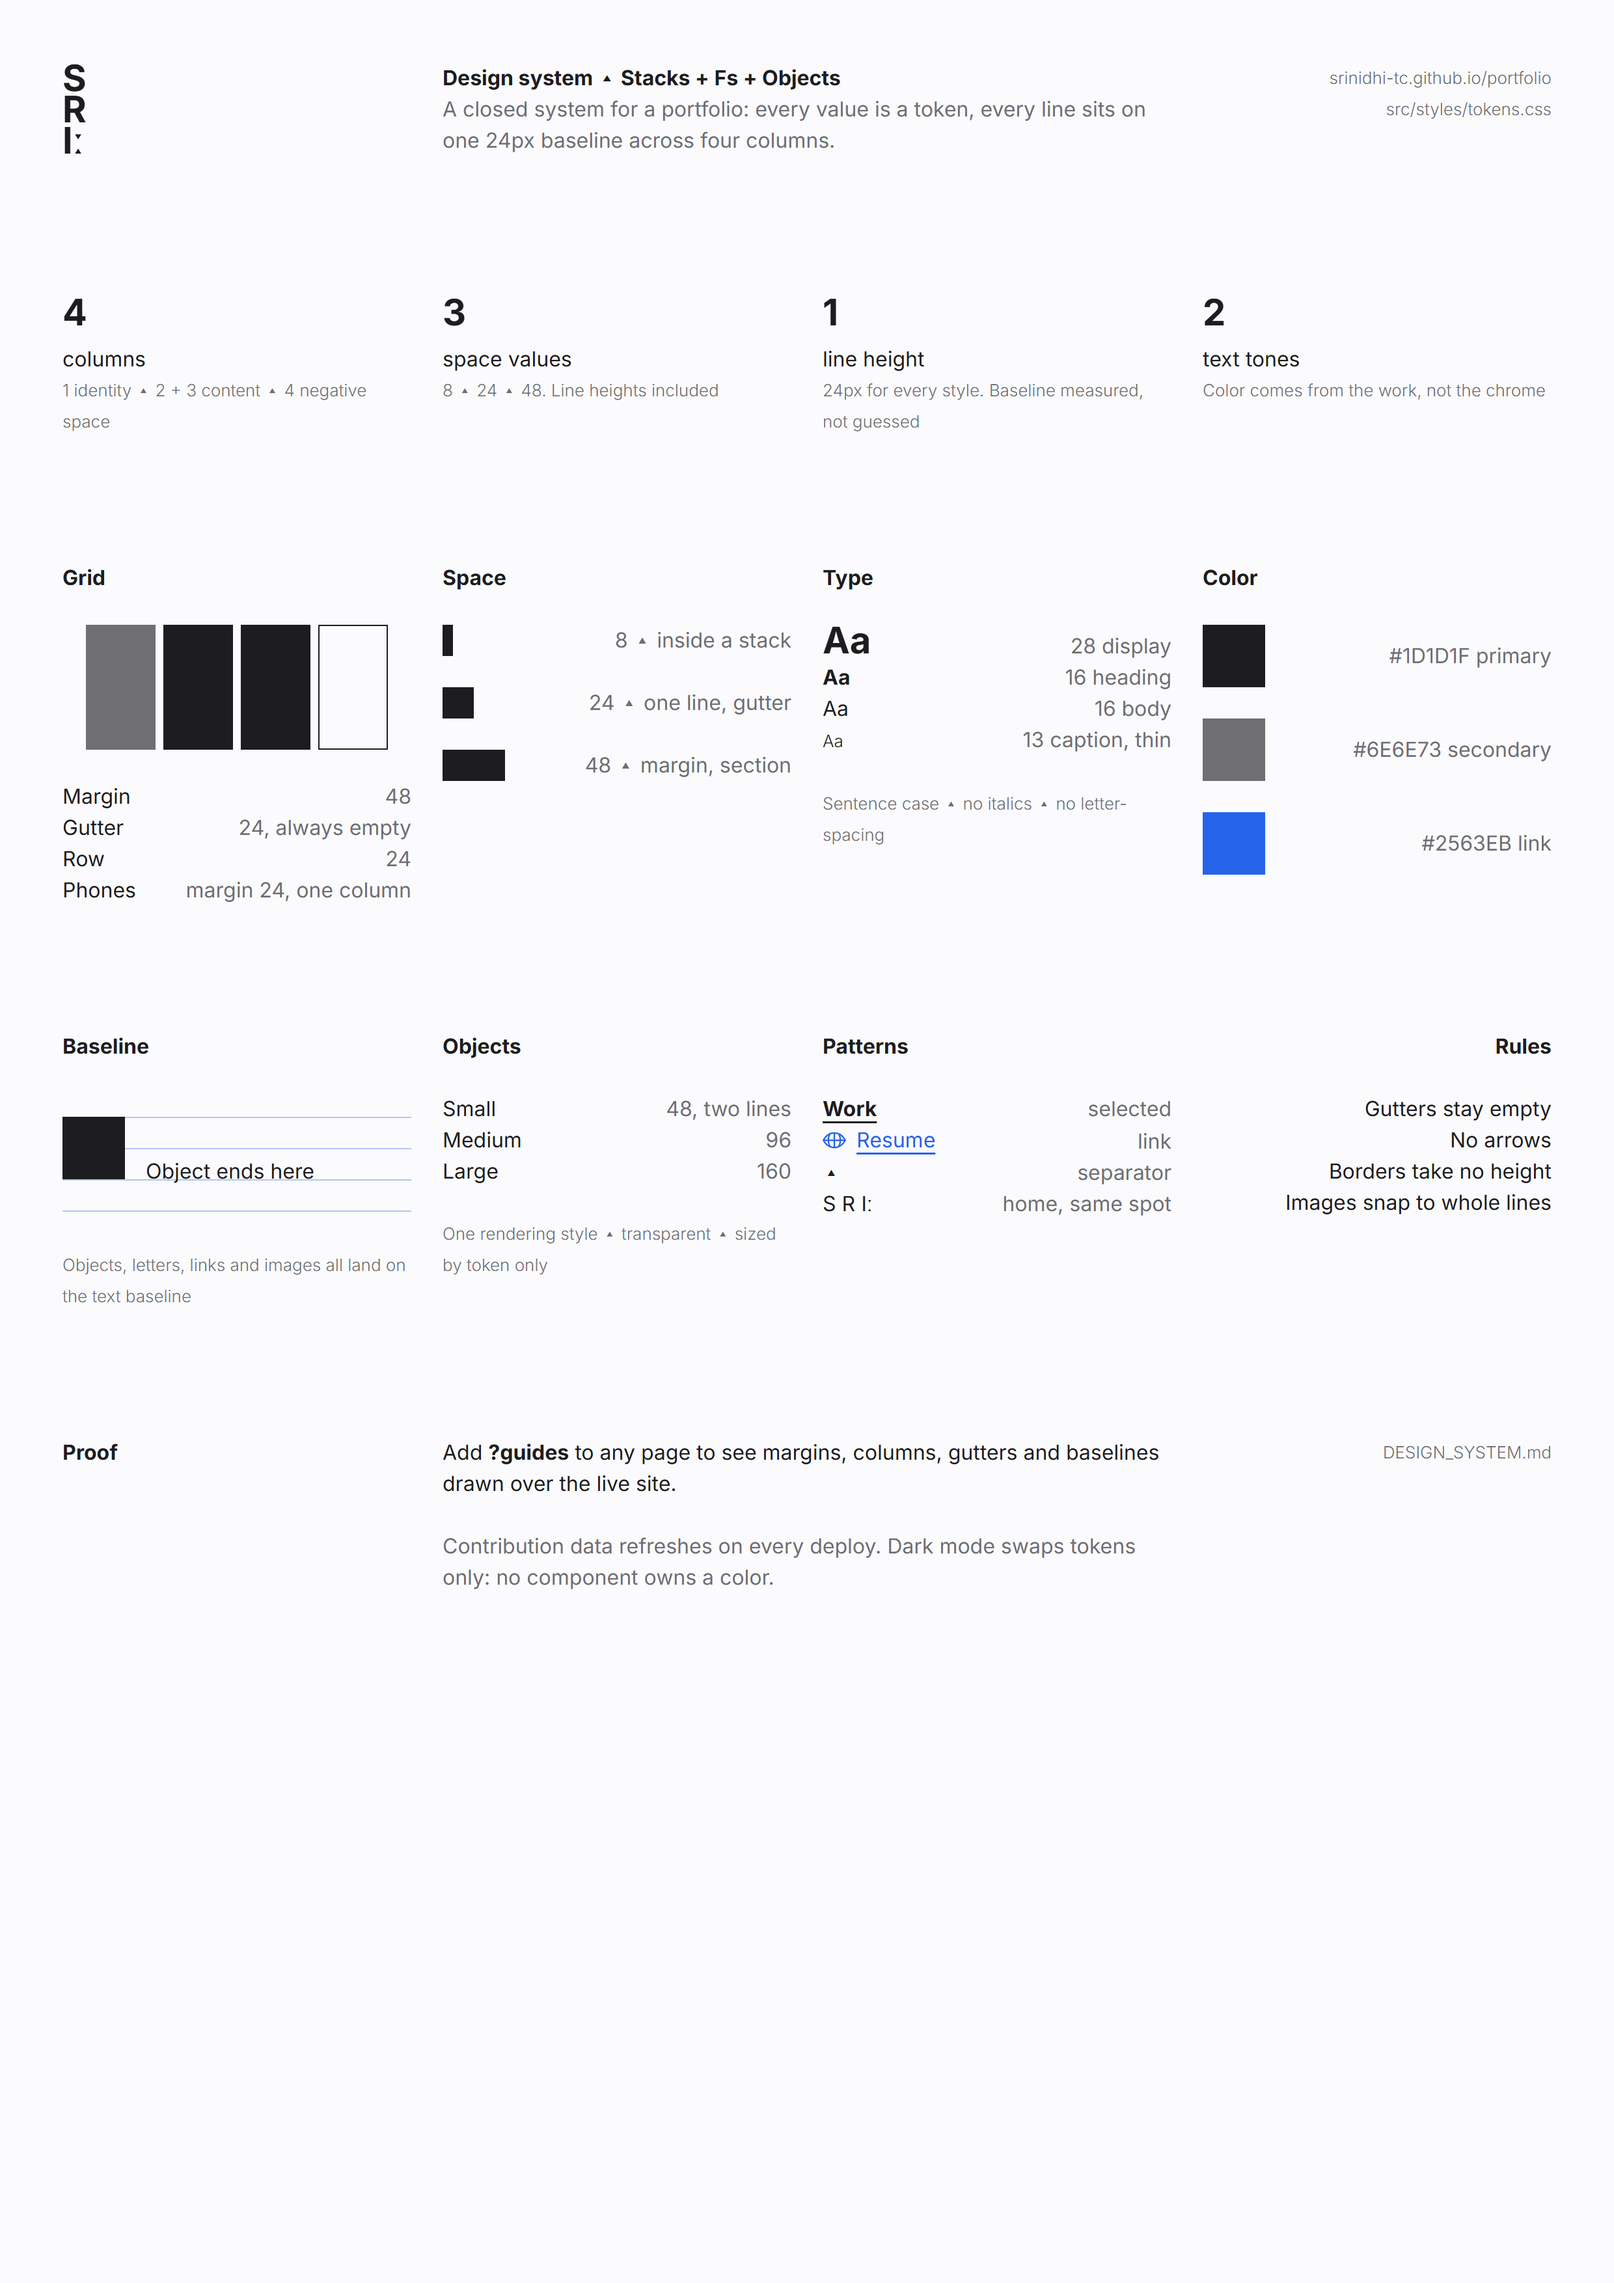
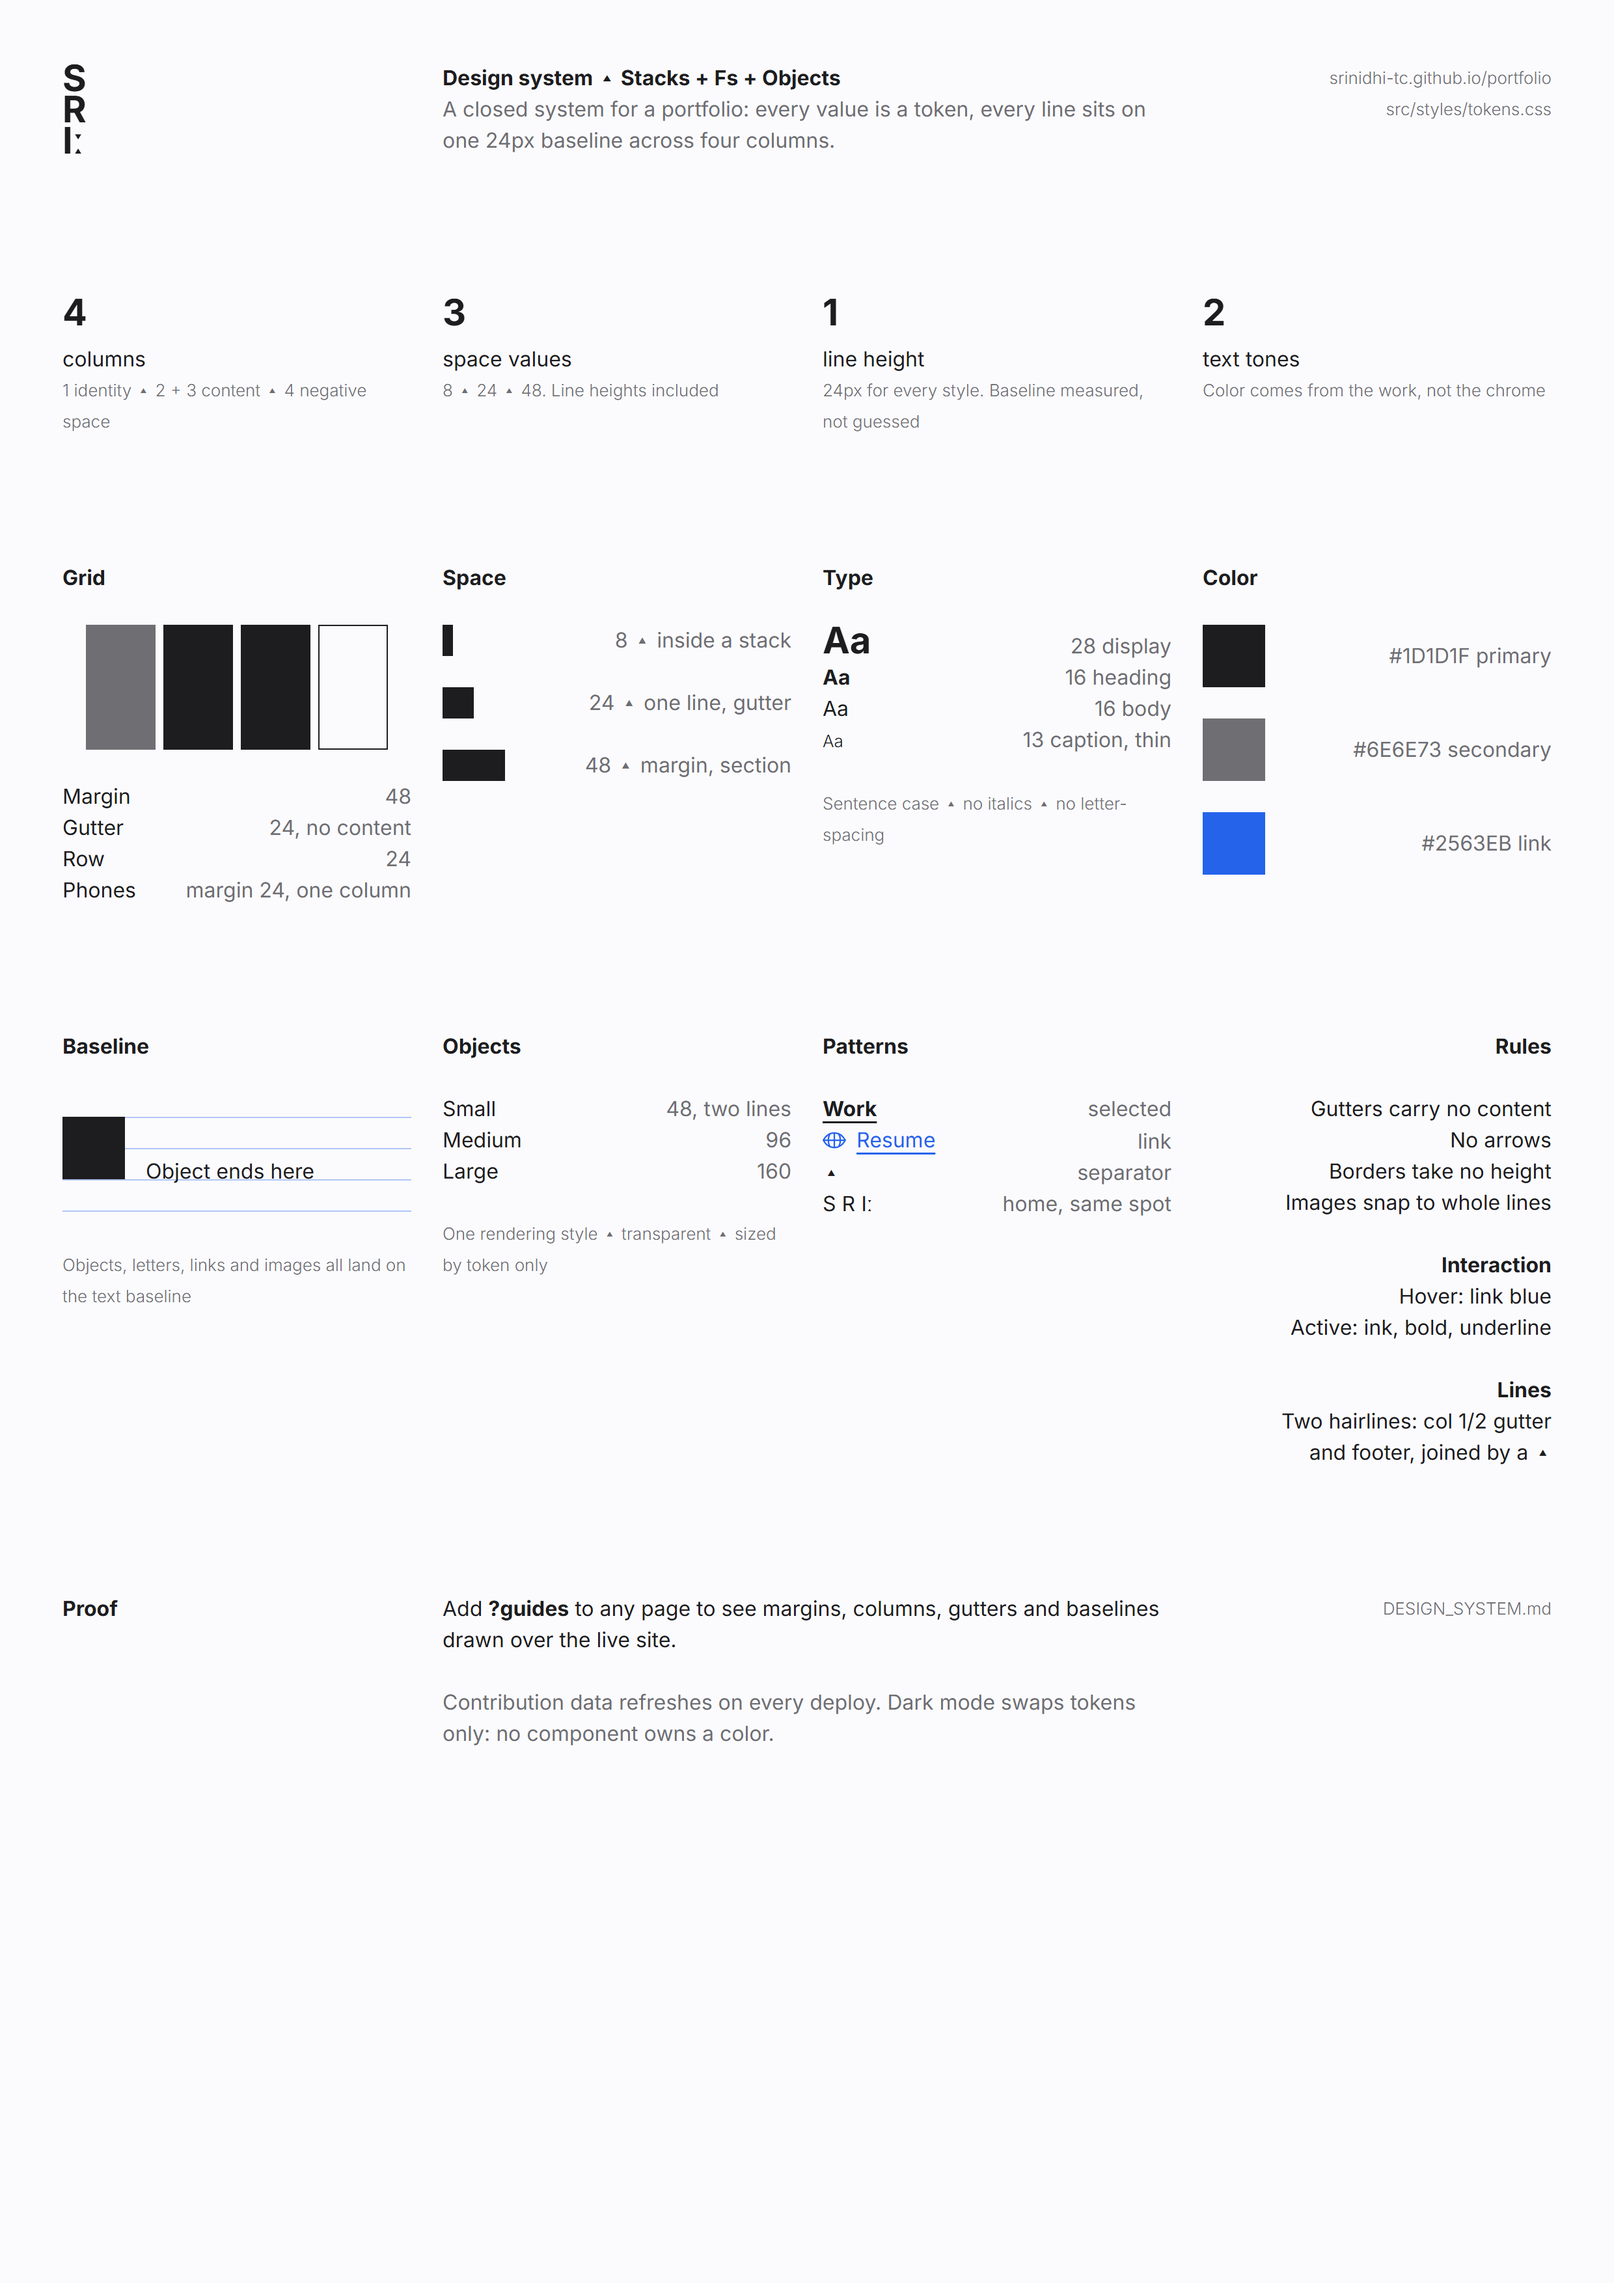
Interaction + lines pass: link-blue hover/focus, bold+underline active with reserved width, case-study toggle in body format with light ▴, wider toggle-to-content space, two hairlines joined by ▴; docs updated

diff --git a/src/styles/utilities.css b/src/styles/utilities.css
@@ -1070,3 +1070,111 @@ li:has(> .primary-link) { display: flex; height: var(--space-m); }
 }
 .home-bio.stack { gap: var(--space-m); }
 .home-bio p { margin: 0; }
+
+/* ==========================================================================
+   Interaction + lines pass. Existing tokens only.
+   ========================================================================== */
+
+/* 1. Hover / keyboard focus: colour only, link blue. */
+a, .home-toggle__label, .home-item__link * {
+  transition: color 150ms ease;
+}
+a:hover, a:focus-visible,
+.home-toggle__label:hover, .home-toggle__label:focus-visible,
+.home-item__link:hover, .home-item__link:focus-visible,
+.home-item__link:hover *, .home-item__link:focus-visible *,
+.chapter-list__item:hover, .chapter-list__item:focus-visible,
+.chapter-list__item:hover .chapter-list__tri, .chapter-list__item:focus-visible .chapter-list__tri {
+  color: var(--link-blue);
+}
+@media (prefers-reduced-motion: reduce) {
+  a, .home-toggle__label, .home-item__link * { transition: none; }
+}
+
+/* 2. Active: ink, bold, 1px underline 3px below. Wins over hover. */
+.home-toggle__label--active,
+.home-toggle__label--active:hover,
+.chapter-list__item--active,
+.chapter-list__item--active:hover {
+  color: var(--text-primary);
+  font-weight: var(--weight-bold);
+  text-decoration: none;
+}
+.home-toggle__label--active,
+.chapter-list__item--active .chapter-list__label {
+  text-decoration: underline;
+  text-decoration-thickness: 1px;
+  text-underline-offset: 3px;
+}
+.chapter-list__item--active .chapter-list__tri { color: var(--text-primary); }
+
+/* Reserve the bold width so nothing shifts when an item becomes active. */
+.home-toggle__label[data-label],
+.chapter-list__label[data-label] {
+  display: inline-flex;
+  flex-direction: column;
+  align-items: flex-end;
+}
+.home-toggle__label[data-label]::after,
+.chapter-list__label[data-label]::after {
+  content: attr(data-label);
+  font-weight: var(--weight-bold);
+  visibility: hidden;
+  height: 0;
+  display: block;
+  overflow: hidden;
+  text-decoration: none;
+}
+
+/* 3. Case-study toggle: body text format; a light ▴ after each word. */
+.chapter-list__item {
+  font-size: var(--type-base);
+  font-weight: var(--weight-regular);
+  line-height: var(--leading-body);
+  color: var(--text-secondary);
+  text-decoration: none;
+}
+.chapter-list__tri {
+  margin-left: 0.4em;
+  color: var(--color-line);
+  transition: color 150ms ease;
+}
+@media (prefers-reduced-motion: reduce) { .chapter-list__tri { transition: none; } }
+
+/* 4. Case studies: more negative space between the toggle and the content. */
+.cs-main { padding-left: var(--padding-big); }
+@media (max-width: 720px) { .cs-main { padding-left: 0; } }
+
+/* 5. Lines: the only two. A vertical hairline in the column 1/2 gutter on
+   home, and the footer hairline, joined by a ▴ where they meet. */
+.next-project { box-shadow: none; }
+@media (min-width: 721px) {
+  .home-grid { position: relative; }
+  .home-grid::before,
+  .home-grid::after {
+    content: "";
+    position: absolute;
+    pointer-events: none;
+    left: calc(var(--edge-margin)
+      + (100% - 2 * var(--edge-margin) - 3 * var(--col-gap)) / 4
+      + var(--col-gap) / 2);
+  }
+  .home-grid::before {
+    top: 0;
+    bottom: 0;
+    width: 1px;
+    background: var(--color-line);
+  }
+  .home-grid::after {
+    bottom: 0;
+    width: var(--space-s);
+    height: var(--space-s);
+    transform: translate(-50%, 50%);
+    background: var(--color-line);
+    clip-path: polygon(50% 0, 100% 100%, 0 100%);
+  }
+}
+/* Active beats the body-text format above. */
+.chapter-list__item.chapter-list__item--active { color: var(--text-primary); font-weight: var(--weight-bold); }
+/* The ▴ keeps one weight so the active word never shifts. */
+.chapter-list__tri { font-weight: var(--weight-regular); }

diff --git a/design-system/cheatsheet.html b/design-system/cheatsheet.html
@@ -85,7 +85,7 @@
     <div class="mini"><div class="m"></div><div class="c1"></div><div></div><div></div><div class="c4"></div><div class="m"></div></div>
     <div class="gap-m"></div>
     <div class="row"><span>Margin</span><span class="soft">48</span></div>
-    <div class="row"><span>Gutter</span><span class="soft">24, always empty</span></div>
+    <div class="row"><span>Gutter</span><span class="soft">24, no content</span></div>
     <div class="row"><span>Row</span><span class="soft">24</span></div>
     <div class="row"><span>Phones</span><span class="soft">margin 24, one column</span></div>
   </div>
@@ -160,10 +160,18 @@
   <div class="stack r">
     <h2>Rules</h2>
     <div class="gap-m"></div>
-    <p>Gutters stay empty</p>
+    <p>Gutters carry no content</p>
     <p>No arrows</p>
     <p>Borders take no height</p>
     <p>Images snap to whole lines</p>
+    <div class="gap-m"></div>
+    <h2>Interaction</h2>
+    <p>Hover: link blue</p>
+    <p>Active: ink, bold, underline</p>
+    <div class="gap-m"></div>
+    <h2>Lines</h2>
+    <p>Two hairlines: col 1/2 gutter</p>
+    <p>and footer, joined by a ▴</p>
   </div>
 </section>
 

diff --git a/src/components/layout/PageShell.jsx b/src/components/layout/PageShell.jsx
@@ -86,8 +86,14 @@ export default function PageShell() {
 
   useLayoutEffect(() => {
     const root = document.documentElement;
-    root.style.setProperty("--bl", `${measureBaseline("var(--type-base)")}px`);
-    root.style.setProperty("--bl-display", `${measureBaseline("var(--type-display)")}px`);
+    const measure = () => {
+      root.style.setProperty("--bl", `${measureBaseline("var(--type-base)")}px`);
+      root.style.setProperty("--bl-display", `${measureBaseline("var(--type-display)")}px`);
+    };
+    measure();
+    // Measure again once the web font has loaded, so the result never
+    // depends on load timing.
+    document.fonts?.ready.then(measure);
   }, []);
 
   useEffect(() => {

diff --git a/src/components/ui/ChapterToggle.jsx b/src/components/ui/ChapterToggle.jsx
@@ -69,7 +69,8 @@ export default function ChapterToggle({ chapters = DEFAULT_CHAPTERS, variant = "
                 aria-current={active === c.id ? "true" : undefined}
                 onClick={(e) => handleClick(e, c.id)}
               >
-                {c.label}
+                <span className="chapter-list__label" data-label={c.label}>{c.label}</span>
+                <span className="chapter-list__tri" aria-hidden="true">▴</span>
               </a>
             </li>
           ))}

diff --git a/src/components/work/Sgx3Toggle.jsx b/src/components/work/Sgx3Toggle.jsx
@@ -20,6 +20,7 @@ export default function Sgx3Toggle({ active }) {
             key={key}
             to={CLIENTS[key].to}
             aria-current={key === active ? "page" : undefined}
+            data-label={CLIENTS[key].label}
             className={"home-toggle__label" + (key === active ? " home-toggle__label--active" : "")}
           >
             {CLIENTS[key].label}

diff --git a/src/components/ui/ProjectCard.jsx b/src/components/ui/ProjectCard.jsx
@@ -42,8 +42,6 @@ export default function ProjectCard({
       to={to}
       style={cardStyle}
       data-reveal
-      onMouseEnter={(e) => { e.currentTarget.style.transform = "scale(1.015)"; }}
-      onMouseLeave={(e) => { e.currentTarget.style.transform = "scale(1)"; }}
     >
       {/* Media — video takes priority over image */}
       {video ? (

diff --git a/src/pages/Home.jsx b/src/pages/Home.jsx
@@ -126,6 +126,7 @@ export default function Home() {
               role="tab"
               aria-selected={view === key}
               className={"home-toggle__label" + (view === key ? " home-toggle__label--active" : "")}
+              data-label={LABEL[key]}
               onClick={() => setView(key)}
             >
               {LABEL[key]}

diff --git a/DESIGN_SYSTEM.md b/DESIGN_SYSTEM.md
@@ -14,7 +14,7 @@ Live one-screen version, rendered from the real tokens: `/design-system` on the 
 |---|---|---|
 | Margin | 48px (`--edge-margin`) | 24px on phones |
 | Columns | 4 (`--col-count`) | 1: identity and labels. 2 + 3: content. 4: negative space |
-| Gutter | 24px (`--col-gap`) | Always empty. Inner layouts split columns 2 + 3 on the same gutter |
+| Gutter | 24px (`--col-gap`) | No content. Inner layouts split columns 2 + 3 on the same gutter. Home carries one hairline in the column 1/2 gutter (see Lines) |
 | Row | 24px | Every line of text is one row |
 
 ## 2. Space: three values, line heights included
@@ -80,7 +80,31 @@ Third primitive, next to stacks and Fs.
 - **Header:** S/R/Iː in column 1, the page's toggle in columns 2 + 3. Not sticky.
   On project pages S/R/Iː is the way home.
 
-## 8. Data that stays current
+## 8. Interaction
+
+Hover: link blue. Active: ink, bold, underline.
+
+- Hover and keyboard focus (`:focus-visible`) change colour only, to `--link-blue`:
+  no scale, no underline, no shadow. `color 150ms ease`, off under
+  `prefers-reduced-motion`.
+- Active (Work / Gallery, SGX3 clients, case-study sections): `--text-primary`,
+  `--weight-bold`, 1px underline 3px below.
+- Bold never shifts layout: each toggle item has `data-label`, and a hidden bold
+  copy (`::after`) reserves its width.
+- Case-study toggle: body text format, `--text-secondary`, each word followed by a
+  light ▴ (`--color-line`, decorative, `aria-hidden`) that changes colour with it.
+
+## 9. Lines
+
+Two hairlines: col 1/2 gutter and footer, joined by a ▴.
+
+- 1px, `--color-line`. Vertical in the column 1/2 gutter on home, from below the
+  header to the footer; horizontal at the top of the footer.
+- An 8px (`--space-s`) ▴ sits centred where they meet.
+- These are the only lines. The vertical one is hidden once the columns collapse
+  (720px and below).
+
+## 10. Data that stays current
 
 `scripts/github-heatmap.mjs` refreshes the GitHub contribution count and heatmap
 before every build, so every deploy.
